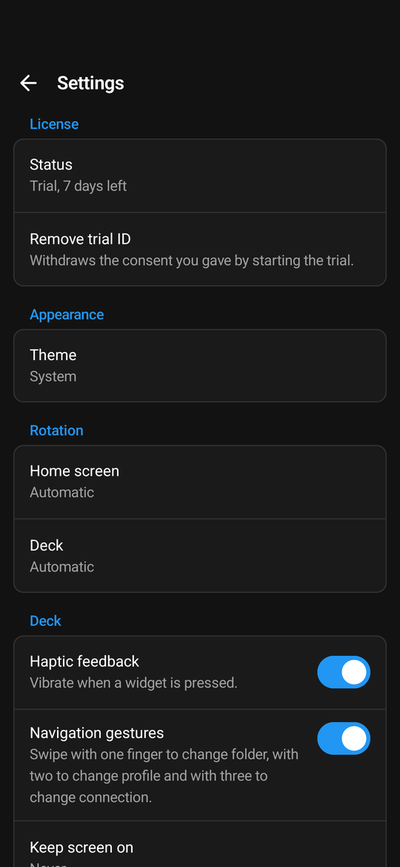
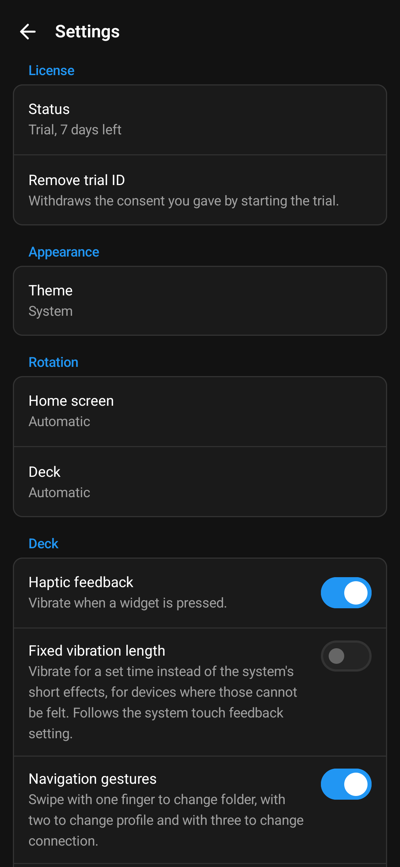
Document the Companion App fixed vibration length (#1235)

diff --git a/docs/src/content/docs/guide/companion-app/settings.md b/docs/src/content/docs/guide/companion-app/settings.md
@@ -31,6 +31,8 @@ See [License and trial](/guide/companion-app/license/).
 | Setting | Does |
 | --- | --- |
 | Haptic feedback | Vibrates when you press a widget. On by default. |
+| Fixed vibration length | Android only. Vibrates for a set time instead of the system's short click effects, for phones and tablets whose vibration motor cannot render those, so a press is not felt. Off by default. Like the normal haptics it follows the system's touch feedback setting, so it stays silent while touch feedback is off in Android's settings. |
+| Vibration length | Android only, shown while **Fixed vibration length** is on. 20 to 200 ms in steps of 10, 80 ms by default. Letting go of the slider plays the new length once. Try a longer one if a press is still hard to feel. |
 | Navigation gestures | Swipe with one finger to change folder, with two to change profile and with three to change computer. On by default. |
 | Keep screen on | **Never**, **While a deck is open** or **Always**. **Never** is the default. The app warns about burn-in first: on OLED screens a deck that never changes can leave a permanent ghost image. A dark theme and lower brightness reduce the risk. |
 | Icon resolution | The size deck icons are loaded in: **Automatic**, **128 px**, **256 px** or **512 px**. **Automatic** is the default and picks the size from how large each icon is drawn, so a phone usually gets 128 px and a tablet or a large widget 256 px or 512 px. A smaller size loads faster, a larger one looks sharper. With **Automatic** the row shows the sizes the deck you last opened used. Only icons change, not artwork such as album covers. A Macro Deck version without this feature always sends 256 px. |
